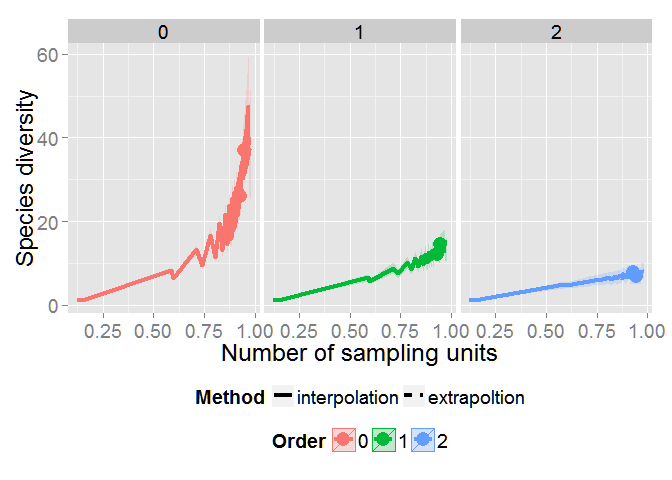
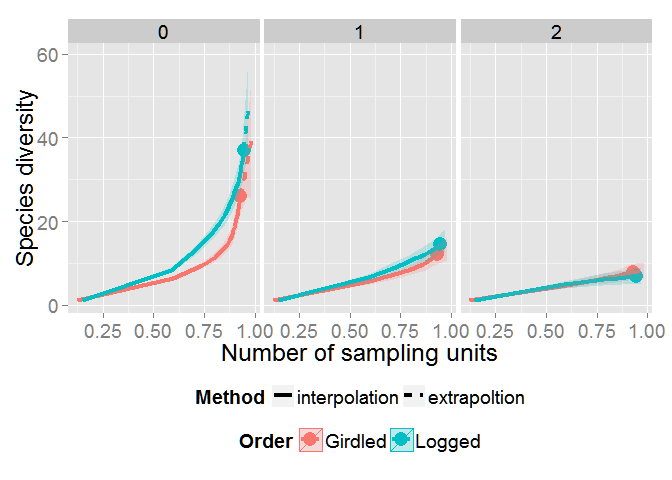
fix figures

diff --git a/README.md b/README.md
@@ -65,23 +65,20 @@ Copy-and-paste the commands below:
 data(spider)
 out <- iNEXT(spider, q=c(0, 1, 2), datatype="abundance", endpoint=500)
 ggiNEXT(out, type=1, facet.var="site")
-ggiNEXT(out, type=1, facet.var="order")
-# plot(out, type=1) 
+ggiNEXT(out, type=1, facet.var="order", color.var="site")
 ```
 
 ![](README-ex1-1.png) ![](README-ex1-2.png)
 
 ``` r
 ggiNEXT(out, type=2, facet.var="none", color.var="site")
-# plot(out, type=2)
 ```
 
 ![](README-ex2-1.png)
 
 ``` r
 ggiNEXT(out, type=3, facet.var="site")
-ggiNEXT(out, type=3, facet.var="order")
-# plot(out, type=3)
+ggiNEXT(out, type=3, facet.var="order", color.var="site")
 ```
 
 ![](README-ex3-1.png) ![](README-ex3-2.png)
